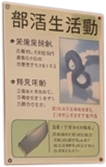
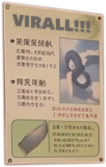
changes: exit button to my custom, add animations to poster, change cursor to default

Changed region(s): [[0.0849, 0.0599, 0.934, 0.2395]]

diff --git a/src/App.jsx b/src/App.jsx
@@ -11,7 +11,7 @@ export default function App() {
         src="./frame.webp"
         className="absolute w-full h-full object-cover select-none pointer-events-none top-0 left-0 z-10 transform scale-[1.1] transition-all duration-300 filter hover:drop-shadow-[0_2px_10px_rgba(0,0,2,0.5)]"
       />
-      <div className="absolute top-17 right-24 z-20 flex gap-5 p-2">
+      <div className="absolute top-17 right-19 z-20 flex gap-5 p-2">
         <PlayButton />
       </div>
 
@@ -44,9 +44,7 @@ export default function App() {
             </div>
           ))}
 
-          {selectedItem && (
-            <Modal item={selectedItem} onClose={() => setSelectedItem(null)} />
-          )}
+          {selectedItem && <Modal item={selectedItem} onClose={() => setSelectedItem(null)} />}
           <ClockAnim />
         </div>
       </div>
@@ -77,12 +75,18 @@ function Modal({ item, onClose }) {
         <h2 className="text-xl font-bold mb-4">{item.title}</h2>
         <p>{item.content}</p>
         <div className="absolute inset-0 flex items-center justify-center">
-          <button
+          {/* <button */}
+          {/*   onClick={onClose} */}
+          {/*   className="absolute top-1 right-1 px-2 py-1 bg-yellow-500 text-white rounded hover:bg-yellow-600 filter drop-shadow-[2px_2px_0px_rgba(0,0,0,1)] transition-all duration-300" */}
+          {/* > */}
+          {/*   X */}
+          {/* </button> */}
+          <div
             onClick={onClose}
-            className="absolute top-1 right-1 px-2 py-1 bg-yellow-500 text-white rounded hover:bg-yellow-600 filter drop-shadow-[2px_2px_0px_rgba(0,0,0,1)] transition-all duration-300"
+            className="absolute top-1 right-1 px-2 py-1 scale-[0.7] cursor-pointer"
           >
-            X
-          </button>
+            <img src="./exitbtn.png" className="w-full h-full" />
+          </div>
         </div>
       </div>
     </div>
@@ -123,11 +127,7 @@ const PlayButton = () => {
       {isPlaying ? (
         <img src="./play.webp" alt="play" className="transform scale-[5]"></img>
       ) : (
-        <img
-          src="./pause.webp"
-          alt="pause"
-          className="transform scale-[5]"
-        ></img>
+        <img src="./pause.webp" alt="pause" className="transform scale-[5]"></img>
       )}
     </div>
   );

diff --git a/src/index.css b/src/index.css
@@ -10,6 +10,6 @@ time .react-clock__face {
   border-radius: 50%;
   display: none;
 }
-*{
-  cursor: url('./cursor.cur'), auto;
-}
+/* *{ */
+/*   cursor: url('./cursor.cur'), auto; */
+/* } */
